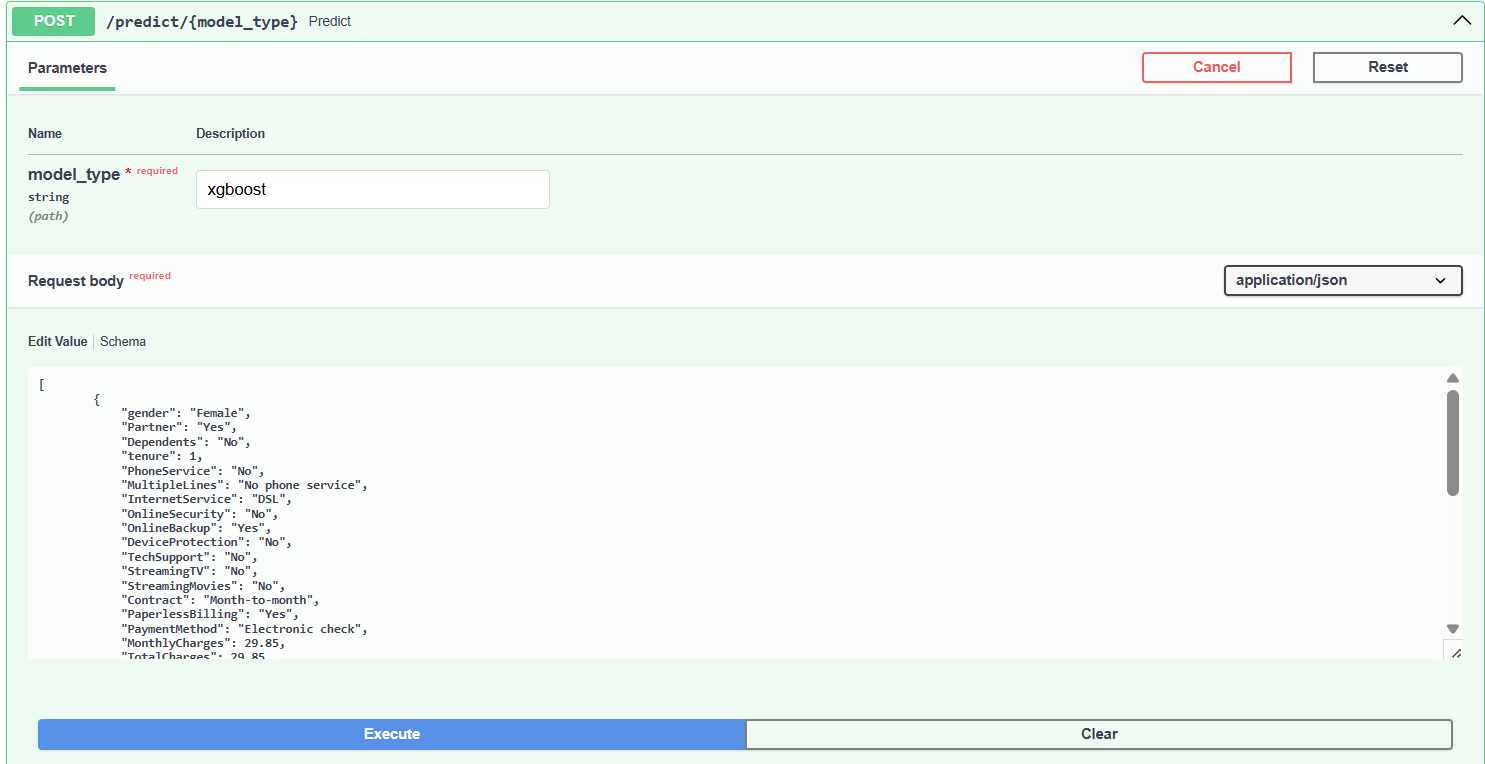
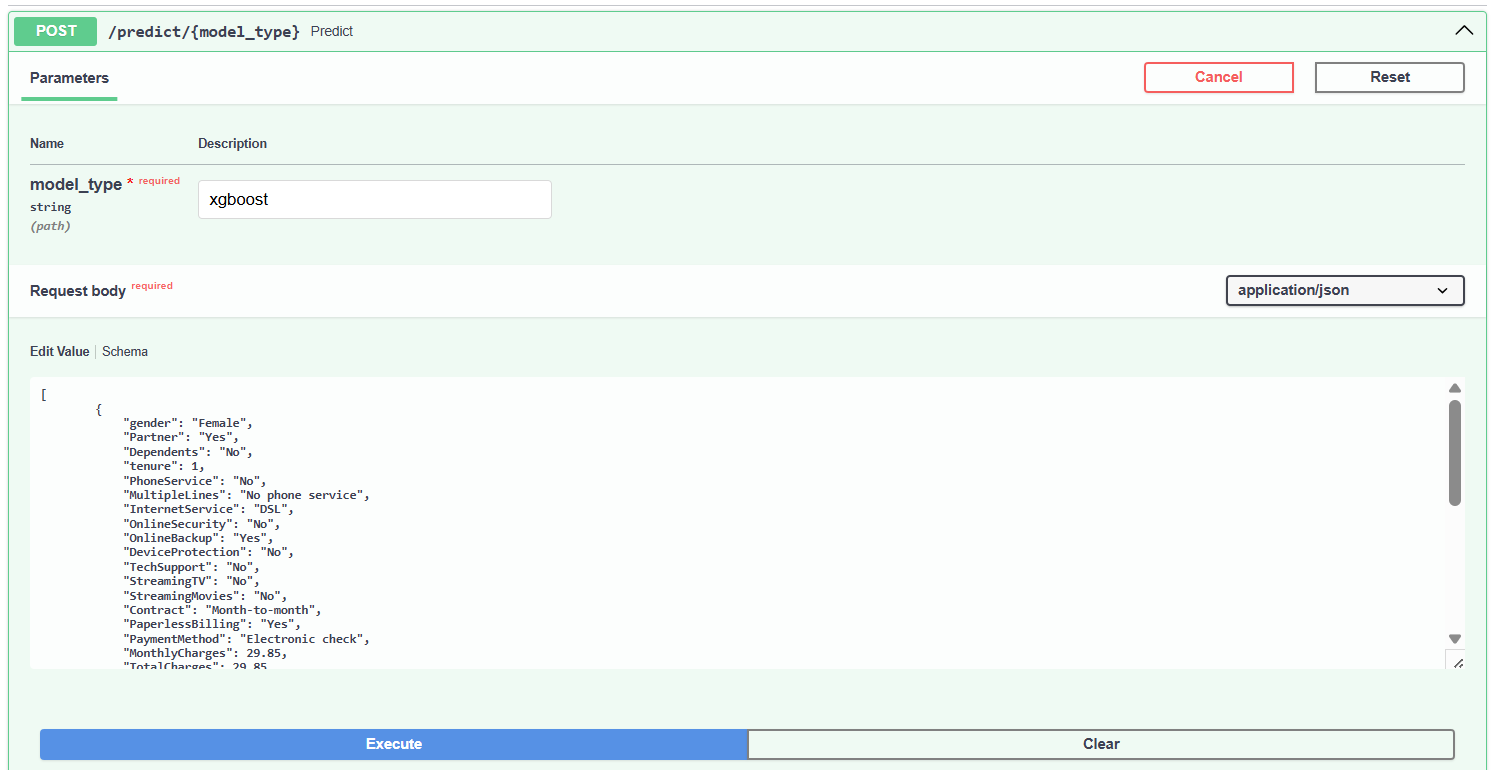
docs: update README and API documentation to include uplift modeling

diff --git a/README.md b/README.md
@@ -1,8 +1,8 @@
 # Telco Churn Prediction Service and Uplift Modeling
 
-This project implements an **End-to-End Machine Learning Service** for predicting customer churn in a telecommunications setting. The goal is not just to train a churn prediction model, but also to build a deployable system that can identify at-risk customers and support targeted retention strategies through **uplift modeling**.
+This repository implements an **End-to-End Machine Learning Service** designed to predict customer churn and to optimize customer retention in the telecommunications setting. The goal is not just to train a churn prediction model, but also to build a deployable system that can identify at-risk customers and support targeted retention strategies through **uplift modeling**.
 
-The core of this repository is a **FastAPI** service that exposes two trained models: an **XGBoost** classifier and a **Multi-Layer Perceptron (MLP)**. Both models are wrapped in **custom scikit-learn pipelines**, allowing them to accept raw input data and produce predictions in a consistent way. This ensures that the same preprocessing logic used during training is also applied at inference time, avoiding training-serving mismatches.
+The core of this repository is a **FastAPI** service that serves a unified inference pipeline. This pipeline exposes two trained models for customer churn prediction: an **XGBoost** classifier and a **Multi-Layer Perceptron (MLP)**—paired with a custom T-Learner Uplift Model. All models are wrapped in **custom scikit-learn pipelines**, allowing them to accept raw input data and produce predictions in a consistent way. This ensures that the same preprocessing logic used during training is also applied at inference time, avoiding training-serving mismatches.
 
 The project combines two complementary components:
 
@@ -15,6 +15,7 @@ The project combines two complementary components:
 - **Structured Pipeline Architecture**:
     - **ETL Pipeline**: A dedicated ETL workflow for ingesting and cleaning raw data, and creating reproducible raw/processed splits.
     - **End-to-End Inference Pipelines**: Separate, fully-encapsulated inference pipelines for both XGBoost and MLP models. These artifacts take raw data as input and output predictions.
+    - **End-to-End Uplift Pipeline**: A fully encapsulated Two-Model uplift architecture built with XGBoost for both treatment and control groups. The pipeline internally splits data by treatment flag (created synthetically), trains separate XGBoost models, and outputs an uplift score defined as the difference between predicted treatment and control probabilities. All preprocessing, feature engineering, and model inference are handled within a single unified pipeline object.
     - **Leakage-Proof Data Flow**: Models are trained on raw splits. By handling all transformations internally within the pipeline, we ensure zero data leakage and total parity between training and inference.
 - **Feature Engineering**: Leveraged a mix of built-in scikit-learn transformers and custom Python classes, designed to integrate cleanly with the sklearn API.
 - **Production-Oriented Engineering**: 
@@ -32,7 +33,8 @@ telco-churn-uplift/
 ├── models/                             # Inference artifacts (ignored by Git, mounted via Docker)
 │   ├── preprocessor_pipeline.joblib    # Full ETL pipeline: engineering, transformations, scaling, & encoding
 │   ├── xgboost_v1.joblib               # End-to-End Pipeline: Preprocessing + Trained XGBoost Classifier
-│   └── mlp_v1.joblib                   # End-to-End Pipeline: Preprocessing + Trained MLP Classifier
+│   ├── mlp_v1.joblib                   # End-to-End Pipeline: Preprocessing + Trained MLP Classifier
+│   └── uplift_v1.joblib                   # End-to-End Pipeline: Preprocessing + Trained MLP Classifier
 ├── notebooks/              
 ├── src/                   
 │   ├── etl/                
@@ -78,10 +80,11 @@ python src/etl/churn_etl.py
 
 Once your data is ready, you have a few ways to interact with the models:
 
-- **Retrain models**: If you want to experiment with different architectures, hyperparameters or updated data, you can trigger the training pipelines for either model. These scripts will automatically save the new end-to-end ```.joblib``` artifacts to the ```models/``` directory. 
+- **Retrain models**: If you want to experiment with different architectures, hyperparameters or updated data, you can trigger the training pipelines for all models. These scripts will automatically save the new end-to-end ```.joblib``` artifacts to the ```models/``` directory. 
 ```bash
 python src/models/train_xgboost.py
 python src/models/train_mlp.py
+python src/models/train_uplift.py
 ```
 - **CLI Inference**: To test the pipeline without starting the web service, you can run the prediction script directly. This is the fastest way to verify that your custom transformers and paths are working correctly.
 ```bash
@@ -92,7 +95,7 @@ python src/serve/predict.py
 uvicorn src.serve.api:app --reload --port 8000
 ```
 Once the service is running, open [http://127.0.0.1:8000/docs](http://127.0.0.1:8000/docs)
- in your browser. The Swagger UI lets you send test JSON payloads to the models and view churn probabilities in real time:
+ in your browser. The Swagger UI lets you send test JSON payloads to the models and view churn probabilities and uplift score in real time:
  
  ![API Prediction Demo: Request Body](docs/images/api_request_body.png)
 
@@ -125,19 +128,31 @@ MLP achieves the highest recall (0.60), meaning it captures more of the actual c
 There is also a noticeable gap in training time. XGBoost trained about 11× faster than the MLP. For this tabular dataset, tree-based methods not only perform better but also train significantly faster, making XGBoost the more practical choice for experimentation and iteration.
 
 ## Uplift Modeling
-### Uplift Model Evaluation
 
-The uplift model predicts the incremental effect of retention actions for each customer. Sample uplift scores:
+We evaluated the Two-Model uplift architecture (using XGBoost for both treatment and control groups) with Causal Inference metrics rather than standard accuracy. Since the goal is to estimate the Incremental Impact of a retention offer, we focus on the Qini Coefficient and Uplift at Top K.
+- **Qini Coefficient** = overall uplift ranking quality (how much better than random our targeting strategy is).
+- **Uplift@K** = incremental gain if we target only the top K% highest-uplift customers.
 
-```bash
-[ 0.023 0.062 -0.002 -0.033 0.354 0.126 -0.017 -0.059 -0.134 0.015 ]
-```
+| Metric           | Result   | Interpretation                                                          |
+|------------------|----------|-------------------------------------------------------------------------|
+| Uplift @ Top 20% | +2.62%   | High-efficiency targeting; captures significant gains in the first 20%. |
+| Qini AUC         | -0.0031  | Indicates the causal signal is highly concentrated in the top segments. |
 
-Evaluation on the test set:
+*NOTE: In a group of 100,000 customers, a 2.62% uplift means 2,620 customers are retained who would have otherwise churned, directly impacting revenue.
 
-- **Uplift @ top 20%:** 0.024 — targeting the top 20% predicted customers yields a small incremental benefit over random selection.  
+The results show that while the model demonstrates a strong 2.62% incremental lift in the primary target customers, the overall metrics reflect the inherent challenges of extracting causal signals from a randomized synthetic treatment distribution.
+ 
+ - **Targeting Efficiency** 
+ 
+ The 2.62% Uplift at 20% demonstrates that even with simulated treatment, the model successfully identifies a "Persuadable" segment.
 
-> **Note:** These results are for demonstration purposes. Using real treatment data and model tuning is expected to significantly improve uplift performance.
+ - **Impact of Synthetic Randomization** 
+ 
+ The near-zero Qini AUC is mainly the result of the Synthetic Random Treatment Assignment. In real-world observational data, treatments (e.g., discounts) are usually correlated with customer behavior (Selection Bias). By using a purely random synthetic assignment, we created a "Worst-Case Scenario" for the model. 
+
+ ![Qini Curve](docs/images/qini_curve.png)
+
+ As the Qini curve shows, the model achieves its maximum separation from the random baseline within the first two deciles, confirming that the predictive power is concentrated in the highest-ranked 'persuadable' customers before the synthetic noise leads to a convergence with the random targeting line.
 
 ## License
 
